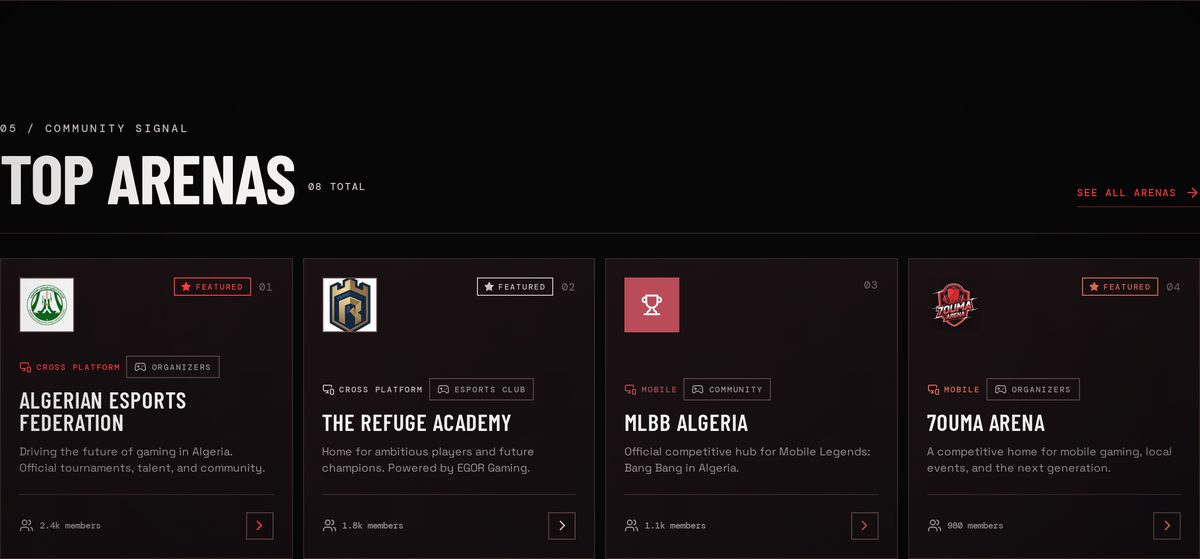
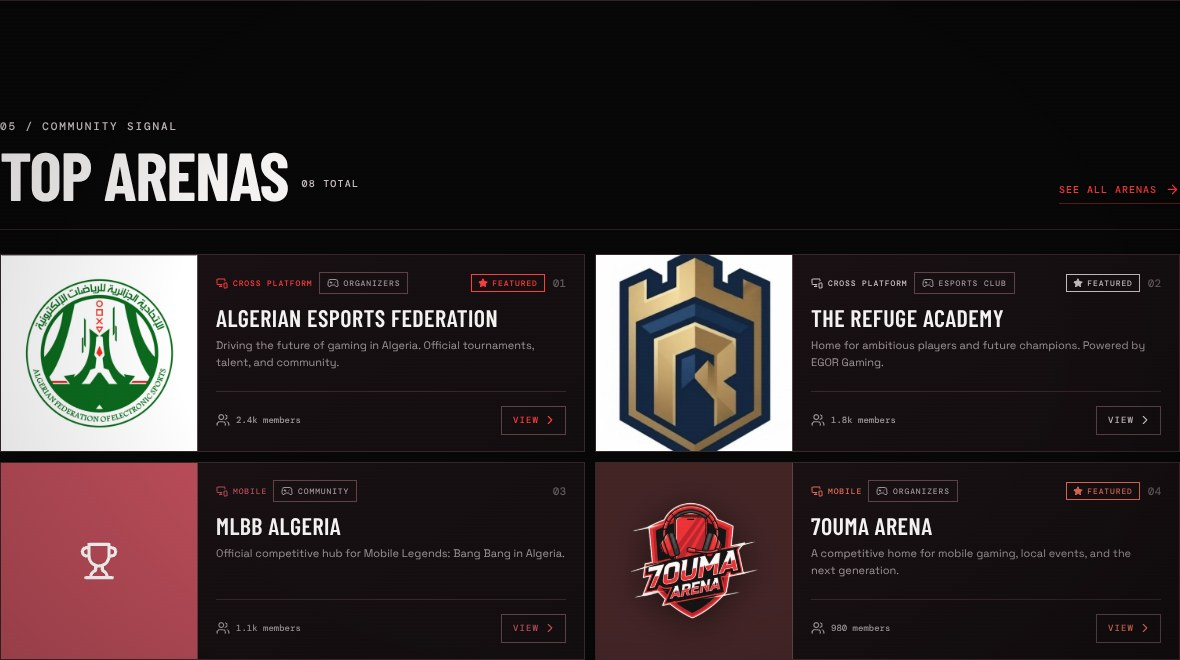
Rework community signal into horizontal arena cards
Section 05 / TOP ARENAS now reads as horizontal cards: a square emblem
tile fills the left edge, with the arena's chips, name, blurb and the
view button in the rectangle beside it.

- arena-grid: 2 columns on desktop, full-width rows below 1050px
- arena-emblem: square tile (196 / 148 / 108px by breakpoint) instead of
  the old 54px avatar chip; trophy fallback scaled to match
- arena-body: new right-hand column holding chips + featured/rank flag,
  copy and the footer (members + VIEW button)
- head row wraps so the chips never slide under the featured badge on
  narrow cards, and the button grows from an icon-only chevron to a
  labelled "VIEW" action
- light + dark docs screenshots refreshed

diff --git a/client/src/index.css b/client/src/index.css
@@ -950,20 +950,24 @@ a {
 .arena-section {
   padding-top: 112px;
 }
+/* Section 05 — horizontal cards: a square emblem tile bleeds off the left edge,
+   the arena copy and its button live in the rectangle on the right. */
 .arena-grid {
   display: grid;
-  grid-template-columns: repeat(4, 1fr);
+  grid-template-columns: repeat(2, minmax(0, 1fr));
   gap: 10px;
   margin-top: 24px;
 }
 .arena-card {
   --accent: var(--lime);
-  min-height: 296px;
-  display: flex;
-  flex-direction: column;
-  padding: 18px;
+  /* Reference square size; the tile keeps this height even if the copy grows. */
+  --arena-square: 196px;
+  display: grid;
+  grid-template-columns: auto minmax(0, 1fr);
+  min-height: var(--arena-square);
   background: linear-gradient(145deg, var(--surface-2), var(--surface));
   border: 1px solid var(--line);
+  overflow: hidden;
   transition:
     transform 0.2s var(--ease),
     border-color 0.2s;
@@ -981,60 +985,77 @@ a {
   transform: translateY(-5px);
   border-color: var(--accent);
 }
-.arena-top,
-.arena-footer {
-  display: flex;
-  align-items: center;
-  justify-content: space-between;
-}
-.arena-top {
-  align-items: flex-start;
-  gap: 10px;
-}
-.arena-top-meta {
-  display: flex;
-  align-items: center;
-  gap: 8px;
-}
-/* Emblem frame — the same 56px avatar tile the live lobby puts on each arena
-   card (uploads/arenas/<id>/avatar). Arenas without an avatar of their own get
-   the original's fallback: a solid tile with a white trophy. */
+/* Left square — the same avatar tile the live lobby puts on each arena card
+   (uploads/arenas/<id>/avatar), scaled up to fill the card's left edge. */
 .arena-emblem {
+  position: relative;
   display: grid;
   place-items: center;
-  width: 54px;
-  height: 54px;
-  flex: none;
+  align-self: center;
+  width: var(--arena-square);
+  height: var(--arena-square);
   overflow: hidden;
   background: var(--surface-3);
-  border: 1px solid var(--line-strong);
   color: #fff;
   transition:
     border-color 0.2s,
-    transform 0.2s var(--ease);
+    background 0.2s;
 }
 .arena-emblem img {
   width: 100%;
   height: 100%;
   object-fit: cover;
+  transition: transform 0.25s var(--ease);
 }
+/* No avatar on the original either — solid tone tile with a white trophy. */
 .arena-emblem--empty {
   background: var(--accent);
   border-color: var(--accent);
 }
-.arena-card:hover .arena-emblem {
-  border-color: var(--accent);
-  transform: scale(1.04);
-}
-/* Alpha-cut emblem: no frame at all, the trimmed crest floats on the card.
-   Declared after the shared hover rule so it can opt out of the frame. */
-.arena-emblem--float,
-.arena-card:hover .arena-emblem--float {
-  background: transparent;
-  border-color: transparent;
+/* Alpha-cut crest: tone wash instead of a hard tile, trimmed logo floats. */
+.arena-emblem--float::before {
+  content: "";
+  position: absolute;
+  inset: 0;
+  background: var(--accent);
+  opacity: 0.16;
 }
 .arena-emblem--float img {
-  filter: drop-shadow(0 4px 12px rgb(0 0 0 / 0.45));
+  position: relative;
+  object-fit: contain;
+  padding: 14%;
+  filter: drop-shadow(0 6px 16px rgb(0 0 0 / 0.5));
+}
+.arena-card:hover .arena-emblem img {
+  transform: scale(1.05);
+}
+/* Right rectangle — chips, name, blurb, then members + the view button. */
+.arena-body {
+  display: flex;
+  flex-direction: column;
+  min-width: 0;
+  padding: 17px 18px 16px;
+  border-left: 1px solid var(--line-strong);
+  transition: border-color 0.2s;
+}
+.arena-card:hover .arena-body {
+  border-left-color: var(--accent);
+}
+/* Chips first, rank/flags pushed right; on narrow cards the flags drop to
+   their own line instead of squeezing the chips. */
+.arena-body-head {
+  display: flex;
+  flex-wrap: wrap;
+  align-items: center;
+  gap: 8px 12px;
+  min-height: 20px;
+}
+.arena-top-meta {
+  display: flex;
+  align-items: center;
+  gap: 8px;
+  flex: none;
+  margin-left: auto;
 }
 /* Filled star flag, straight off the original arena cards. */
 .arena-featured {
@@ -1053,7 +1074,7 @@ a {
   font: 500 11px var(--mono);
 }
 .arena-copy {
-  margin-top: auto;
+  margin: 12px 0 15px;
 }
 /* Platform + category chips: MonitorSmartphone / Gamepad2, the same lucide
    glyphs the original prints under each arena. */
@@ -1062,7 +1083,8 @@ a {
   flex-wrap: wrap;
   align-items: center;
   gap: 6px;
-  margin-bottom: 11px;
+  min-width: 0;
+  flex: 0 1 auto;
 }
 .arena-chip {
   display: inline-flex;
@@ -1089,8 +1111,8 @@ a {
   color: var(--accent);
 }
 .arena-copy h3 {
-  margin: 10px 0 9px;
-  font: 600 23px/0.95 var(--display);
+  margin: 0 0 8px;
+  font: 600 24px/0.98 var(--display);
   letter-spacing: 0.02em;
 }
 .arena-copy p {
@@ -1098,13 +1120,22 @@ a {
   color: var(--muted);
   font-size: 11px;
   line-height: 1.5;
+  text-wrap: pretty;
 }
 .arena-footer {
-  padding-top: 17px;
-  margin-top: 17px;
+  display: flex;
+  align-items: center;
+  justify-content: space-between;
+  gap: 12px;
+  padding-top: 14px;
+  margin-top: auto;
   border-top: 1px solid var(--line);
   color: var(--muted);
   font: 500 9px var(--mono);
+  transition: border-color 0.2s;
+}
+.arena-card:hover .arena-footer {
+  border-top-color: var(--accent);
 }
 .arena-footer span {
   display: flex;
@@ -1112,16 +1143,23 @@ a {
   gap: 6px;
 }
 .arena-footer button {
-  display: grid;
-  place-items: center;
-  width: 27px;
-  height: 27px;
+  display: inline-flex;
+  align-items: center;
+  gap: 4px;
+  height: 29px;
+  padding: 0 8px 0 11px;
+  flex: none;
   background: transparent;
   border: 1px solid var(--line-strong);
   color: var(--accent);
+  font: 500 9px var(--mono);
+  letter-spacing: 0.12em;
+  text-transform: uppercase;
+  transition: all 0.18s var(--ease);
 }
 .arena-footer button:hover {
   background: var(--accent);
+  border-color: var(--accent);
   color: #0a110e;
 }
 .store-section {
@@ -1316,8 +1354,13 @@ html:not(.dark) .gift-card:hover {
   .game-grid {
     grid-template-columns: repeat(3, 1fr);
   }
+  /* Horizontal arena cards get a full row each before the copy is squeezed,
+     with the copy optically centred next to the square. */
   .arena-grid {
-    grid-template-columns: repeat(2, 1fr);
+    grid-template-columns: 1fr;
+  }
+  .arena-copy {
+    margin-block: auto;
   }
   .gift-grid {
     grid-template-columns: repeat(3, 1fr);
@@ -1484,6 +1527,18 @@ html:not(.dark) .gift-card:hover {
   .arena-grid {
     grid-template-columns: 1fr;
   }
+  .arena-card {
+    --arena-square: 148px;
+  }
+  .arena-body {
+    padding: 15px 16px 14px;
+  }
+  .arena-copy {
+    margin: 11px 0 13px;
+  }
+  .arena-copy h3 {
+    font-size: 21px;
+  }
   .store-section {
     padding-bottom: 80px;
   }
@@ -1506,6 +1561,20 @@ html:not(.dark) .gift-card:hover {
     left: 18px;
     right: 18px;
     bottom: 18px;
+  }
+}
+@media (max-width: 480px) {
+  .arena-card {
+    --arena-square: 108px;
+  }
+  .arena-body {
+    padding: 13px 14px 12px;
+  }
+  .arena-copy h3 {
+    font-size: 19px;
+  }
+  .arena-footer {
+    padding-top: 12px;
   }
 }
 @media (max-width: 420px) {

diff --git a/client/src/pages/Home.tsx b/client/src/pages/Home.tsx
@@ -1309,59 +1309,65 @@ export default function Home() {
                 className={`arena-card arena-card--${arena.tone}`}
                 key={arena.name}
               >
-                <div className="arena-top">
-                  <span
-                    className={`arena-emblem${
-                      arena.logo ? "" : " arena-emblem--empty"
-                    }${arena.emblemFit === "float" ? " arena-emblem--float" : ""}`}
-                  >
-                    {arena.logo ? (
-                      <img
-                        src={assetUrl(arena.logo)}
-                        alt={`${arena.name} emblem`}
-                        loading="lazy"
-                        decoding="async"
-                      />
-                    ) : (
-                      /* Original lobby fallback: white trophy on a solid tile. */
-                      <Trophy size={22} strokeWidth={2} aria-hidden="true" />
-                    )}
-                  </span>
-                  <div className="arena-top-meta">
-                    {arena.featured && (
-                      <span className="arena-featured">
-                        <Star size={10} strokeWidth={2} fill="currentColor" />
-                        Featured
+                {/* Left square: the arena emblem tile the lobby uses as avatar. */}
+                <div
+                  className={`arena-emblem${
+                    arena.logo ? "" : " arena-emblem--empty"
+                  }${arena.emblemFit === "float" ? " arena-emblem--float" : ""}`}
+                >
+                  {arena.logo ? (
+                    <img
+                      src={assetUrl(arena.logo)}
+                      alt={`${arena.name} emblem`}
+                      loading="lazy"
+                      decoding="async"
+                    />
+                  ) : (
+                    /* Original lobby fallback: white trophy on a solid tile. */
+                    <Trophy size={40} strokeWidth={1.9} aria-hidden="true" />
+                  )}
+                </div>
+                {/* Right rectangle: chips, name, blurb and the view button. */}
+                <div className="arena-body">
+                  <div className="arena-body-head">
+                    {/* Same two chips as the original lobby footer. */}
+                    <div className="arena-chips">
+                      <span className="arena-chip arena-chip--platform">
+                        <MonitorSmartphone size={12} strokeWidth={2} />
+                        {arena.platform}
                       </span>
-                    )}
-                    <span className="arena-rank">0{index + 1}</span>
+                      <span className="arena-chip arena-chip--category">
+                        <Gamepad2 size={12} strokeWidth={2} />
+                        {arena.category}
+                      </span>
+                    </div>
+                    <div className="arena-top-meta">
+                      {arena.featured && (
+                        <span className="arena-featured">
+                          <Star size={10} strokeWidth={2} fill="currentColor" />
+                          Featured
+                        </span>
+                      )}
+                      <span className="arena-rank">0{index + 1}</span>
+                    </div>
                   </div>
-                </div>
-                <div className="arena-copy">
-                  {/* Same two chips as the original lobby footer. */}
-                  <div className="arena-chips">
-                    <span className="arena-chip arena-chip--platform">
-                      <MonitorSmartphone size={12} strokeWidth={2} />
-                      {arena.platform}
-                    </span>
-                    <span className="arena-chip arena-chip--category">
-                      <Gamepad2 size={12} strokeWidth={2} />
-                      {arena.category}
-                    </span>
+                  <div className="arena-copy">
+                    <h3>{arena.name}</h3>
+                    <p>{arena.desc}</p>
                   </div>
-                  <h3>{arena.name}</h3>
-                  <p>{arena.desc}</p>
-                </div>
-                <div className="arena-footer">
-                  <span>
-                    <Users size={14} /> {arena.members} members
-                  </span>
-                  <button
-                    onClick={() => notify(`Opening ${arena.name}`)}
-                    aria-label={`View ${arena.name}`}
-                  >
-                    <ChevronRight size={16} />
-                  </button>
+                  <div className="arena-footer">
+                    <span>
+                      <Users size={14} /> {arena.members} members
+                    </span>
+                    <button
+                      type="button"
+                      onClick={() => notify(`Opening ${arena.name}`)}
+                      aria-label={`View ${arena.name}`}
+                    >
+                      View
+                      <ChevronRight size={14} />
+                    </button>
+                  </div>
                 </div>
               </article>
             ))}
